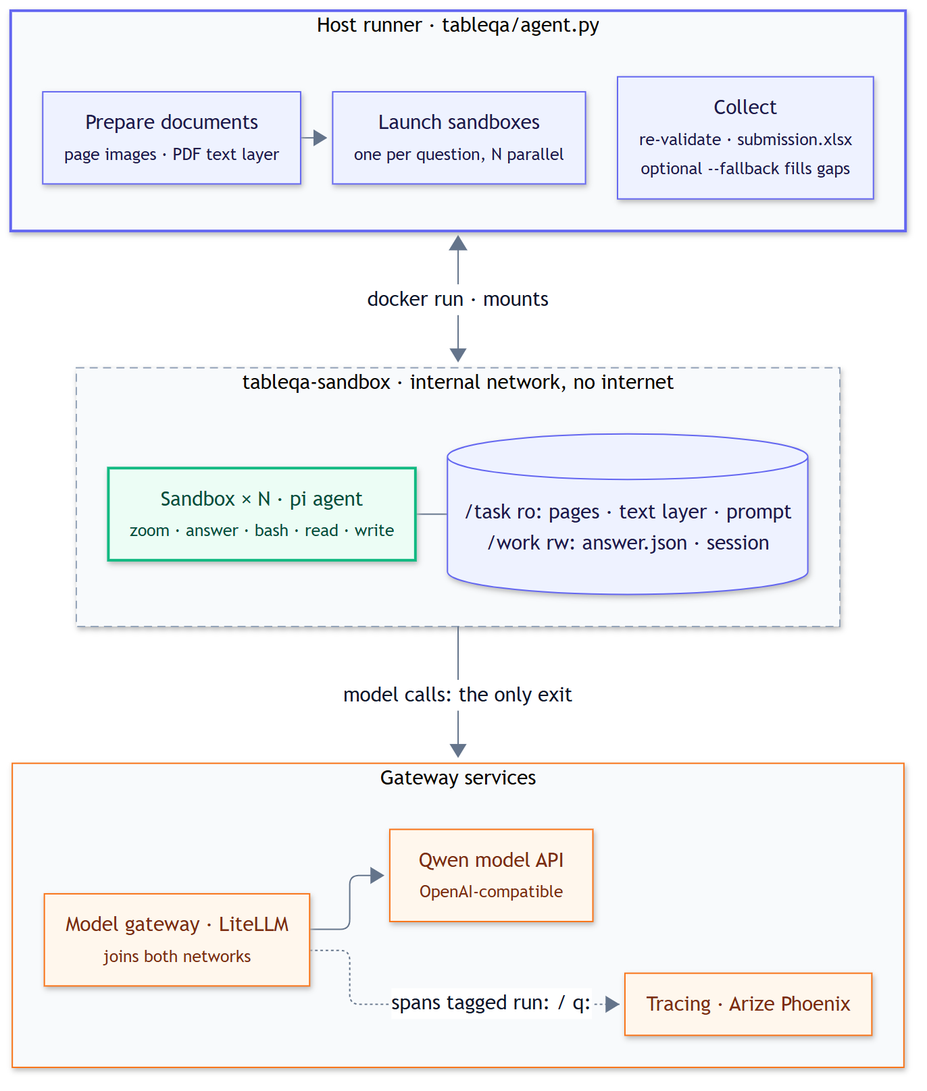
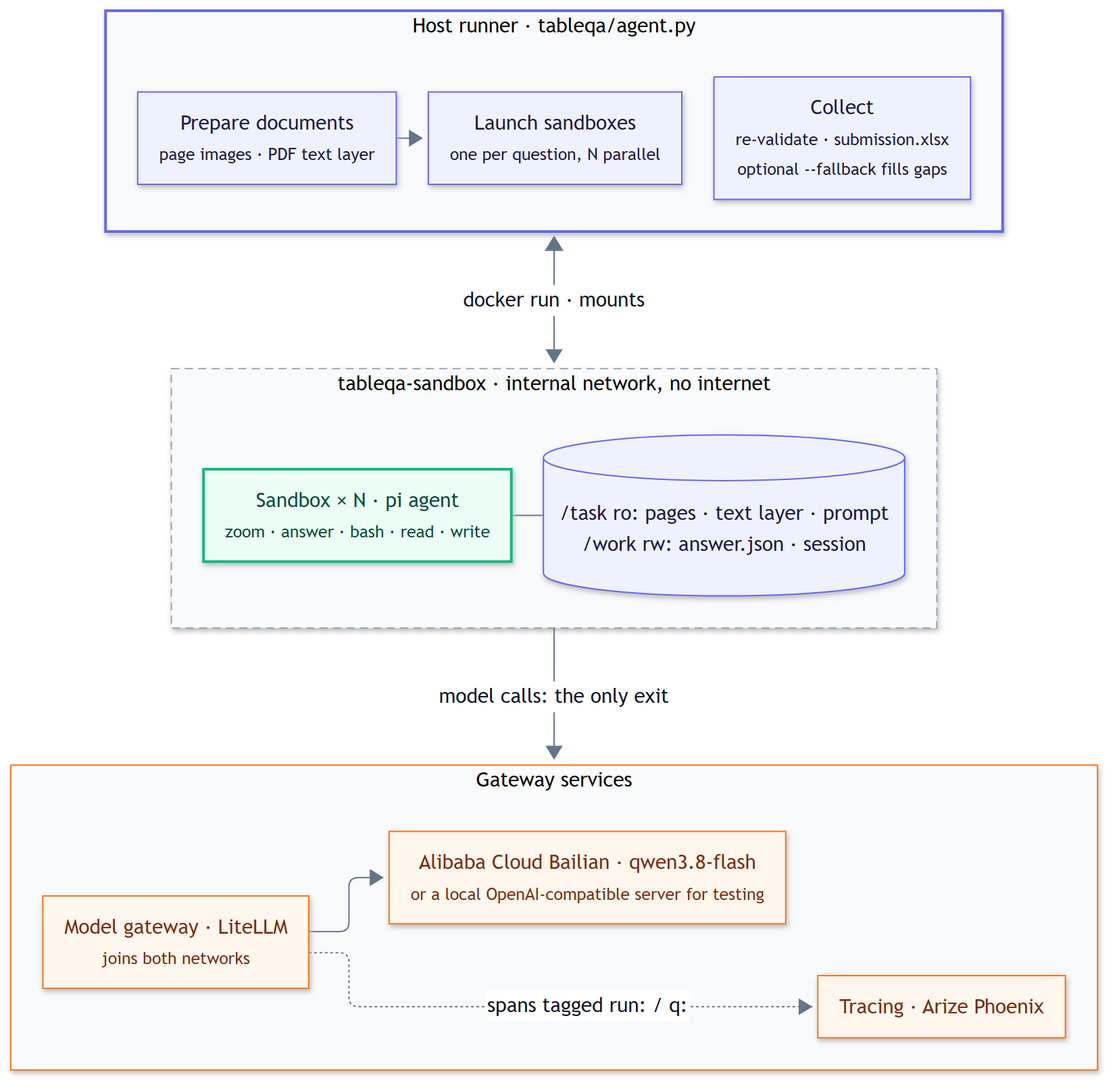
Docs: Bailian as the production target, local servers for testing, latest results

diff --git a/docs/agent-harness.md b/docs/agent-harness.md
@@ -1,123 +1,189 @@
-# Agentic harness: how to run
+# Agent harness: how to run it
 
-Design and rationale: [agent-harness-plan.md](agent-harness-plan.md).
+The agent harness answers each competition question with an AI agent instead of a single model call. For every question, the harness starts a fresh Docker container. Inside it, the [pi](https://github.com/earendil-works/pi) coding agent looks at the page images, reads the PDF text layer when the document has one, crops and enlarges parts of the page, runs Python for arithmetic, and finally submits an answer. The model behind the agent is Alibaba Cloud Bailian's `qwen3.8-flash`.
+
+The design and the reasons behind it are in [agent-harness-plan.md](agent-harness-plan.md).
 
 ![Architecture](diagrams/architecture.svg)
 
 ![One question, end to end](diagrams/session-sequence.svg)
 
-Diagram sources are `docs/diagrams/*.mmd`. Re-render with bun (uses the installed Edge or Chrome; set `MERMAID_BROWSER` otherwise):
+## Quick start
+
+You need three things installed: [Docker](https://docs.docker.com/get-docker/) (running), [uv](https://docs.astral.sh/uv/), and a Bailian API key from the [Alibaba Cloud Model Studio console](https://bailian.console.aliyun.com/).
+
+1. Copy the settings template and fill in your API key and base URL:
+
+   ```bash
+   cp .env.example .env
+   ```
+
+2. Check that the model endpoint supports everything the harness needs. This sends about 15 small requests and costs well under ¥0.10:
+
+   ```bash
+   uv run agent.py smoke
+   ```
+
+3. Answer all 908 questions:
+
+   ```bash
+   uv run agent.py run
+   ```
+
+Each command reads `.env` by itself, rebuilds the sandbox image (this takes seconds when nothing changed), and starts the model gateway and the tracing service with Docker Compose. You do not need to run any setup commands first. The answers end up in `runs/agent/submission.xlsx`.
+
+To try a few questions first, add `--limit 10` (the first ten questions) or `--ids 3,5,20` (specific questions). Use `--name` to keep separate runs in separate folders, for example `uv run agent.py run --name pilot --limit 30`.
+
+If a run stops for any reason, start the same command again. Questions that already have an answer are skipped and cost nothing. This includes a question whose container saved its answer just before the run stopped. Questions that failed or ran out of time start again from the beginning, so the tokens they used before are paid again. To redo one question on purpose, delete its file in `runs/<name>/records/`.
+
+Rerunning only some questions, for example with `--ids`, still writes every answer the run folder holds into `submission.xlsx`, not just the rerun ones. A run folder only accepts answers from one model on one server: it remembers both in `runs/<name>/origin.json` and refuses to continue if either changes, so a test run and the real run can never mix. Use a new `--name` for each server.
+
+If 8 questions in a row fail, the run stops starting new questions, because that usually means the API key, the quota or the service is broken. The questions that were never started get the status `not_started`. The command then exits with an error and tells you to run it again once the problem is fixed.
+
+## Where the model runs
+
+The main and production target is Alibaba Cloud Bailian. The competition requires Qwen models served by Alibaba Cloud, and the final submission must come from a Bailian run.
+
+For development, the harness also works with a model server on your own machine, such as [vLLM](https://docs.vllm.ai/), [SGLang](https://docs.sglang.ai/) or [Ollama](https://ollama.com/), as long as it speaks the OpenAI chat-completions API. Testing against a local server costs nothing, so it is the right place to try prompt or tool changes before spending money on the real endpoint. The `runs/full` results below came from such a development run. To use a local server:
+
+- Put the local settings in their own file, for example `.env.local`, so the real Bailian key never goes to the test server. Pass it with `uv run agent.py --env-file .env.local run --name local`.
+- Set `DASHSCOPE_BASE_URL` to the server's address as seen from inside Docker, for example `http://host.docker.internal:8000/v1`. Docker containers cannot reach `127.0.0.1` on your machine, which is why the address uses `host.docker.internal`.
+- Set `DASHSCOPE_MODEL` to the name the server uses for the model, for example `Qwen3.8-Flash-Next`. The agent still asks the gateway for `qwen3.8-flash`, and the gateway passes the request on under the server's name.
+- Set `DASHSCOPE_API_KEY` to any non-empty text if the server does not check keys.
+- With many parallel containers, also set `LITELLM_CONFIG='litellm-no-messages.yaml'`, so Phoenix records only timing and token counts (see "Watching a run").
+
+The settings for the development run in this repository looked like this:
 
 ```bash
-cd docs/diagrams && bun install && bun run render
+export DASHSCOPE_BASE_URL='http://host.docker.internal:8000/v1'
+export DASHSCOPE_API_KEY='local-test'
+export DASHSCOPE_MODEL='Qwen3.8-Flash-Next'
+export AGENT_MODEL='qwen3.8-flash'
+export LITELLM_CONFIG='litellm-no-messages.yaml'
 ```
 
-Each question runs in its own Docker container with the [pi](https://github.com/earendil-works/pi) coding agent, the page images, the PDF text layer (when present), and a fixed offline Python toolset. The agent has two extra tools: `zoom` (crop and enlarge a page region) and `answer` (submit; validated with the baseline's `normalize_response`). All model calls go through a LiteLLM gateway that logs to Arize Phoenix.
+Bailian reads the thinking settings as top-level request fields. A local server usually reads them from `chat_template_kwargs` instead and ignores the top-level fields, so on a local server the model uses its chat template's default thinking behaviour.
 
-## Layout
+## What one question looks like
 
-| Path | What |
-|---|---|
-| `agent.py` | CLI: `smoke`, `run` |
-| `tableqa/agent.py` | Runner: materials, sandbox pool, validation, submission, cost report |
-| `tableqa/smoke.py` | Endpoint checks |
-| `agent/Dockerfile` | Sandbox image (pi 1.5.2, Python tools) |
-| `agent/pi/` | pi config: `models.json`, `settings.json`, `agent-prompt.md`, `extensions/tableqa.ts` |
-| `agent/tools.py` | `zoom` and answer `check` helpers used by the extension |
-| `agent/compose.yaml`, `agent/litellm.yaml` | LiteLLM gateway + Phoenix |
-| `tests/` | Unit tests and a scripted fake LLM for an offline end-to-end check |
+1. The host prepares the document once and keeps the result in `runs/cache/`: page images (the same renderer as the baseline) and, for PDFs, the text layer with word coordinates. Some PDFs have a broken text layer, where the fonts map every character to the wrong symbol, so the text reads like `!"#$%&'()*+`. The host leaves such a layer out (fewer than half of its characters are letters, digits or Chinese characters), and the agent reads the page image instead.
+2. The host starts a container for the question. The container has no internet access. The only address it can reach is the LiteLLM model gateway.
+3. The agent receives the page images and the question, and works for up to 25 turns. Besides `read`, `bash` and `write`, it has two tools written for this task:
+   - `zoom` crops a region of a page and returns it enlarged.
+   - `answer` checks the answer against the required format (with the baseline's own validator) and ends the session. If the answer has the wrong format, the tool rejects it and tells the agent why, so it can fix it.
+4. If the agent reaches the 25-turn limit, it gets one last turn in which it can only call `answer`.
+5. The host validates the answer again, because it never trusts what comes out of a container, and writes it into `submission.xlsx`. If the agent passed its whole output object as the answer text, for example `{"answer": "培养计划课程"}`, the validator takes the inner value.
 
-## Setup (once)
+The prompt never contains a file name or a question number. Any file name in the question text, including short forms such as `62.pdf` for the file `062.pdf`, is replaced with "该文档" ("this document"). The question number is only in an environment variable inside the container, where pi uses it to tag the traces in Phoenix.
 
-Everything installs into `.venv/` or Docker images; nothing global.
+## Model settings
 
-```bash
-uv sync
-```
+These are set in `agent/pi/models.json` and sent with every model call:
+
+| Setting | Value | Why |
+|---|---|---|
+| `enable_thinking` | `true` | The model reasons before it answers or calls a tool. |
+| `reasoning_effort` | `xhigh` | The highest level Bailian offers for qwen3.8-flash (`max` and `high` mean the same). |
+| `preserve_thinking` | `true` | The model's earlier reasoning stays in the conversation, so later turns build on it. Bailian bills it as input. |
+| `vl_high_resolution_images` | `true` | Without it, Bailian shrinks every image larger than about 2.6 megapixels. About one page image in five is larger than that, and small table text becomes harder to read when it shrinks. |
+| `temperature`, `top_p`, `top_k` | 1.0, 0.95, 20 | The sampling settings recommended for thinking mode. |
+
+`uv run agent.py run --thinking off` turns thinking off (temperature 0.7, top_p 0.8).
+
+## Cost and prompt caching
+
+Bailian charges ¥0.8 per million input tokens and ¥2.7 per million output tokens for qwen3.8-flash in the Beijing region (price list read on 2026-11-19). Reasoning tokens count as output.
+
+Every turn of an agent session sends the whole conversation again, so most of the input is a repeat of the previous call. Bailian's implicit context cache recognises a repeated beginning of a request (at least 1,024 tokens) and charges cached tokens at a fraction of the input price. The cache works automatically and needs no request changes. The harness only has to keep earlier messages byte-for-byte identical, which pi does: it appends new messages and never edits old ones. Questions about the same document also share the system prompt, the tool list and the page images at the start of the first request, so they can hit the cache too.
+
+Bailian also offers an explicit cache with `cache_control` markers. The harness does not use it: creating an explicit cache entry costs more than normal input, and a hit is billed the same as an implicit hit.
+
+`runs/<name>/report.json` prints three cost figures:
+
+- `no_cache`: the price if nothing had been cached.
+- `reported_cache_hits`: the price with the cache hits that Bailian reported. This is the closest figure to the real bill.
+- `prefix_cache_best_case`: the price if every repeated beginning had been cached.
+
+## Watching a run
+
+Open Phoenix at http://127.0.0.1:6006 (project `tableqa-agent`). Every model call appears there while the run is going, with the full messages, token counts, latency and errors. Each call is tagged `run:<name>,q:<question id>`.
+
+Each call carries base64 page images of 1 to 2 MB. In an earlier run with 32 parallel containers, Phoenix fell behind and LiteLLM dropped some traces. If that happens, the run itself is not affected, because the complete record of every session is saved on disk in `runs/<name>/work/<id>/session/`.
+
+For runs with many parallel containers, set `LITELLM_CONFIG='litellm-no-messages.yaml'` in the env file. Phoenix then records each call's timing, token counts and errors, but not the messages. Without the setting, the gateway uses `agent/litellm.yaml`, which logs the full messages.
+
+If you do not need tracing, you can ignore Phoenix. It runs as its own container and the harness works the same without anyone looking at it.
+
+## Output files
+
+Everything for a run is in `runs/<name>/`:
+
+- `submission.xlsx` is the file to upload to the competition platform.
+- `report.json` contains status counts, tool-call totals, average turns, token totals, the cost figures and the total container time.
+- `records/<id>.json` holds one question's answer, status, time, turns, tool counts and token usage.
+- `work/<id>/session/*.jsonl` is the full agent transcript. `stdout.txt`, `stderr.txt` and `answer.json` are next to it.
+
+A question ends with one of these statuses: `ok` (a validated answer), `empty` (the agent decided the answer is empty), `no_answer` (the session ended without calling `answer`), `timeout`, `failed`, or `not_started` (skipped after 8 failures in a row). Questions without an answer stay empty in the submission. With `--fallback submission.xlsx`, they are filled from another submission, such as the baseline's.
+
+## Results
+
+### Development run on a local server (2026-11-17)
+
+This run used the open-weight Qwen3.8-Flash-Next model on a local vLLM server, with the same thinking level as above.
+
+| | Baseline (one model call per question) | Agent harness |
+|---|---|---|
+| Platform score | 71.6 (about 650 of 908 correct) | **78.7** (about 715 of 908 correct) |
+| Answers submitted | 908 | 907 (the agent left 1 empty on purpose) |
+
+- No answers were taken from the baseline.
+- The agent used 19.95 million input tokens and 0.99 million output tokens, with 3.14 turns per question on average.
+- Tool calls: 1,523 `zoom`, 725 `bash`, 134 `read` and 917 `answer`.
+- At Bailian prices, those tokens would cost ¥18.65 with no caching, or ¥8.05 if every repeated prefix were cached. That is ¥0.01 to ¥0.02 per question.
+- The 30 questions about the three PDFs with broken text layers (071, 072 and 073) used 26% of all tokens: 9.4 turns and about 185,000 tokens per question, against 2.8 turns and 22,000 tokens for the other PDFs. The agent kept trying to read the garbled text. The harness now leaves such text layers out.
+- Without ground truth, a comparison with the baseline's answers showed two weak spots. On table-structure questions, the agent tends to return more cells than the requested part of the table. About 30 text answers are full sentences instead of bare values.
+
+### Test run on Bailian (2026-11-19)
+
+Before the full run, `uv run agent.py smoke` passed all its checks on Bailian, and 10 questions (3 structure, 4 extraction, 3 reasoning) ran through the whole harness with 10 containers in parallel:
+
+- All 10 questions ended `ok`.
+- 6 answers were identical to the local development run. Checked by hand against the documents, the other 4 were no worse: in two (q448, a phone number, and q699, a four-row table header) the Bailian answer was right and the local one wrong. The other two (q589 and q749) differ only in whether an empty top-left header corner counts as one merged cell or two cells, which the page does not settle.
+- Bailian reported 88% of all input tokens as cache hits (578,816 cached, 79,049 not cached). The 10 questions cost ¥0.18, compared with ¥0.59 if nothing had been cached.
+- Most questions took 8 to 73 seconds. The slowest one, a large table-structure question, used 23 turns and took 9.6 minutes. On the local server, the same questions took 31 to 441 seconds each.
+
+At this rate, all 908 questions should cost roughly ¥10 to ¥20 and take about 1.5 hours with 16 containers.
+
+## Command options
+
+`uv run agent.py run` accepts:
+
+| Option | Default | Meaning |
+|---|---|---|
+| `--name` | `agent` | Run name and output folder under `runs/` |
+| `--workers` | 16 | Number of containers running at the same time |
+| `--timeout` | 1800 | Seconds allowed per question |
+| `--max-turns` | 25 | Turns before the final answer-only turn |
+| `--thinking` | `high` | `high` sends `reasoning_effort: xhigh`; `off` disables thinking |
+| `--limit`, `--ids` | all | Run only the first N questions, or only the listed ids |
+| `--fallback` | none | Fill unanswered questions from another submission file |
+| `--no-setup` | off | Skip building the image and starting the gateway |
+| `--resume` | off | Only for sessions saved before the final answer-only turn existed: give them that one turn and start nothing new |
+
+`--env-file` and `--no-setup` belong before the command name, for example `uv run agent.py --env-file test.env smoke`. Variables that are already set in your shell take priority over the file.
+
+With 16 workers, the run makes a few calls per second and uses well under Bailian's rate limit for the Beijing region (5 million tokens per minute at the lowest spending level). Each container is limited to 1 CPU and 2 GB of memory, but uses far less in practice, so 16 containers fit on an ordinary desktop computer.
+
+## Offline check without a model
+
+`tests/fake_llm.py` is a scripted model server. It always calls `zoom` first and then `answer`, and it prints every request it receives. It tests the whole chain without spending money: the container, the pi settings, the tools, images inside tool results, the gateway, Phoenix and the host-side validation.
 
 ```bash
 docker build -f agent/Dockerfile -t tableqa-agent:dev .
 ```
 
-Set `.env` (git-ignored; see `.env.example`). `AGENT_BASE_URL` is read from inside the LiteLLM container: an endpoint on this machine's localhost is `http://host.docker.internal:<port>/v1`.
-
 ```bash
-source .env && docker compose -f agent/compose.yaml up -d
-```
-
-Phoenix UI: http://127.0.0.1:6006. Gateway: http://127.0.0.1:4000/v1.
-
-## Check the endpoint
-
-```bash
-source .env && uv run python agent.py smoke
-```
-
-It must pass: text, image input, tool call, image inside a tool result (pi's message format), 30 images in one request, thinking parsed into `reasoning_content`. The Responses API line is informational.
-
-## Run
-
-Pilot on 30 questions, then read a few transcripts:
-
-```bash
-source .env && uv run python agent.py run --name pilot --limit 30
-```
-
-All 908 questions:
-
-```bash
-source .env && uv run python agent.py run
-```
-
-Submit `runs/agent/submission.xlsx` on the platform and compare with the baseline's 71.6. Questions the agent could not answer stay empty, so the score is the agent's alone; `--fallback submission.xlsx` would fill them from the baseline instead.
-
-Runs resume: finished questions (`records/<id>.json` with status `ok` or `empty`) are skipped. Delete a record to redo it.
-
-Optional control: the one-shot baseline against the same endpoint, at the same thinking level, separates "different model build" from "agent harness" in the score difference.
-
-```bash
-source .env && uv run python baseline.py run --custom-endpoint --base-url http://127.0.0.1:4000/v1 --model "$AGENT_MODEL" --output-dir runs/baseline --workers 16 --thinking --max-tokens 65536
-```
-
-## Results
-
-`runs/<name>/`:
-
-- `submission.xlsx`: the file to submit.
-- `report.json`: status counts, tool-call totals, mean turns, total tokens and sandbox time (the cost side of the result).
-- `records/<id>.json`: answer, status, seconds, turns, tool counts, token usage.
-- `work/<id>/session/*.jsonl`: full pi transcript (replayable), plus `stdout.txt`, `stderr.txt`, `answer.json`.
-
-Statuses: `ok` (validated answer), `empty` (agent submitted an empty answer), `no_answer` (session ended without `answer`), `timeout`, `failed`.
-
-At the turn cap (`--max-turns`, default 25) the agent gets one grace turn with only `answer` available. Sessions saved before that existed can be given just that turn with `--resume`, which skips every question that already has an answer.
-
-### Full run (2026-11-17)
-
-| | Baseline (one call per question) | pi agent |
-|---|---|---|
-| Platform score | 71.6 (≈650/908 correct) | **78.7** (≈715/908 correct) |
-| Answers submitted | 908 | 907 (1 deliberately empty) |
-
-- No answers were filled from the baseline.
-- Agent cost: 19.95 M input tokens and 0.99 M output tokens over 908 questions, with an average of 3.14 turns per question.
-- Tool calls: 1523 `zoom`, 725 `bash`, 134 `read` and 917 `answer`.
-- At qwen3.8-flash list prices on the official API this would cost **¥18.65** without caching, or **¥8.05** if every resent prefix hit the implicit cache. That is about ¥0.01–0.02 per question.
-- Total sandbox time was 38.4 h, run at 48 in parallel.
-- Weak spots found by comparing answers with the baseline's (no ground truth):
-  - Table-structure questions: the agent tends to return more cells than the requested sub-range.
-  - About 30 string answers are written as sentences rather than bare values.
-
-## Observability
-
-Phoenix gets one span per model call with latency, token counts, errors and the tag `run:<name>,q:<id>` (filter on `metadata.requester_metadata.headers.x-litellm-tags`). Message bodies are off (`turn_off_message_logging` in `agent/litellm.yaml`): every call carries base64 images (1–2 MB), and at 32 workers Phoenix fell behind and LiteLLM dropped span batches over the 64 MB export limit. Full transcripts are the pi session files; `pi --export <file>` turns one into HTML.
-
-## Offline check (no model needed)
-
-`tests/fake_llm.py` is a scripted server: it calls `zoom`, then `answer`. It verifies the whole chain: sandbox, pi config, extension, image round-trip, LiteLLM, Phoenix, host validation.
-
-```bash
-AGENT_BASE_URL=http://fake-llm:8000/v1 docker compose -f agent/compose.yaml up -d
+DASHSCOPE_BASE_URL=http://fake-llm:8000/v1 DASHSCOPE_API_KEY=fake docker compose -f agent/compose.yaml up -d
 ```
 
 ```bash
@@ -125,22 +191,35 @@ MSYS_NO_PATHCONV=1 docker run -d --name fake-llm --network tableqa-agent_default
 ```
 
 ```bash
-AGENT_MODEL=Qwen3.8-Flash-Next uv run python agent.py run --name e2e --ids 3,5,20 --max-turns 4
+DASHSCOPE_BASE_URL=http://fake-llm:8000/v1 DASHSCOPE_API_KEY=fake uv run agent.py run --name e2e --ids 3,5,20 --max-turns 4
 ```
 
-Expected: ids 3 and 20 `ok` with answer `42`; id 5 (`json_array`) `no_answer` after the validator rejects `42` and the turn cap aborts. Remove `runs/e2e` and `fake-llm` afterwards, then restart compose with the real `.env`.
+On Linux and macOS, replace `$(pwd -W)` with `$(pwd)` and drop `MSYS_NO_PATHCONV=1`.
 
-## Knobs
-
-`agent.py run` flags: `--name` (default `agent`), `--workers` (parallel sandboxes, default 16), `--timeout` (seconds per question, 1800), `--max-turns` (25), `--thinking off|high` (default `high`), `--limit`, `--ids`, `--fallback`.
-
-Thinking defaults to the maximum: pi level `high` maps to `reasoning_effort: xhigh` in `chat_template_kwargs` (`agent/pi/models.json`). Sampling follows the model card: thinking temperature 1.0, top_p 0.95, top_k 20; with `--thinking off`, temperature 0.7, top_p 0.8. The card's presence penalty is left out because it works against copying repeated digits. The baseline's `--thinking` sends the same kwargs and sampling.
+Expected result: questions 3 and 20 end `ok` with the answer `42`. Question 5 needs a JSON array, so the validator rejects `42` and the question ends `no_answer`. `docker logs fake-llm` shows the exact fields the gateway forwarded, including `enable_thinking`, `reasoning_effort`, `preserve_thinking` and the replayed `reasoning_content`. Afterwards, delete `runs/e2e`, run `docker rm -f fake-llm`, and run the smoke test again so that the gateway switches back to the settings in `.env`.
 
 ## Sandbox limits
 
-Per container: internal network (only the gateway is reachable), read-only root filesystem, 512 MB tmpfs `/tmp`, writable `/work` only, 1 CPU, 2 GB RAM, 256 processes, all capabilities dropped, non-root user. Python packages: pillow, pymupdf, openpyxl, numpy, pandas, opencv-python-headless.
+Each container runs on an internal Docker network where the only reachable address is the gateway. It has a read-only root filesystem, a 512 MB `/tmp`, a writable `/work` folder, 1 CPU, 2 GB of memory and at most 256 processes. All Linux capabilities are dropped and it runs as a normal user. The Python packages inside are pillow, pymupdf, openpyxl, numpy, pandas and opencv-python-headless. There are no OCR engines and no machine-learning frameworks, and nothing can be installed at run time.
 
-Not limited, bounded only by the per-question timeout:
+Two things are limited only by the per-question timeout:
 
-- **Disk in `/work`:** it is a host bind mount without a quota, so a runaway script can fill the host disk. Watch free space on a full run.
-- **Model calls from tools:** code run through `bash` can call the gateway directly, outside the turn cap. The gateway has no per-sandbox budget; Phoenix shows such calls under the question's tag only if they set the tag header, so compare `report.json` tokens with the gateway's totals.
+- `/work` is a folder on the host without a size quota, so a runaway script could fill the host disk. Keep an eye on free disk space during a full run.
+- Code that the agent runs with `bash` could call the gateway directly, outside the turn limit. The gateway only forwards `qwen3.8-flash`, so such calls cannot reach a more expensive model. To spot them, compare the token totals in `report.json` with the totals in Phoenix.
+
+The Bailian API key is only given to the gateway container. The agent containers never see it.
+
+## Project layout
+
+| Path | What it contains |
+|---|---|
+| `agent.py` | The command-line entry point (`smoke` and `run`) |
+| `tableqa/agent.py` | The runner: document preparation, the container pool, validation, the submission file and the cost report |
+| `tableqa/smoke.py` | The endpoint checks behind `agent.py smoke` |
+| `agent/Dockerfile` | The sandbox image: pi 1.5.2 and the Python tools |
+| `agent/pi/` | pi settings: the model settings, the extra system prompt, the turn limit and the `zoom` and `answer` tools |
+| `agent/tools.py` | The Python helpers behind `zoom` and the answer check |
+| `agent/compose.yaml`, `agent/litellm.yaml`, `agent/litellm-no-messages.yaml` | The LiteLLM gateway and Phoenix (with and without message logging) |
+| `tests/` | Unit tests and the fake model server |
+
+Run the unit tests with `uv run pytest`. The diagrams are generated from `docs/diagrams/*.mmd`. To redraw them, run `bun install` and then `bun run render` in `docs/diagrams` (this uses the installed Edge or Chrome browser; set `MERMAID_BROWSER` to use another one).

diff --git a/docs/agent-harness-plan.md b/docs/agent-harness-plan.md
@@ -31,6 +31,7 @@ Compared with a separate OCR model such as PaddleOCR: for PDFs with a text layer
   - `answer(answer, calculations)` validates with the baseline's `normalize_response`, writes `answer.json`, ends the session.
 - **Prompt:** the baseline's prompt for the question type (`tableqa/prompts.py`), plus a short note on the tools and on submitting through `answer`.
 - **Limits:** 25 turns, 30 minutes per question, maximum reasoning effort.
+- **Model:** `qwen3.8-flash` on Alibaba Cloud Bailian for the real run. During development, the same harness ran against the open-weight Qwen3.8-Flash-Next model on a local vLLM server, which costs nothing per call.
 - **Collection:** the host re-validates `answer.json` and writes `submission.xlsx`. A question without a valid answer stays empty.
 - **Observability:** every model call goes through LiteLLM and is traced in Phoenix (tokens, latency, run/question tags). Full transcripts are kept per question.
 
@@ -42,7 +43,7 @@ The platform scores submissions (5 per day). The plan uses 1–2 submissions:
 
 1. Run the agent on all 908 questions, submit, compare with the baseline's 71.6.
 2. Report the cost next to the score: tokens, wall-clock time, tool calls and turns per question (`report.json`).
-3. Optional control: the one-shot baseline against the same model endpoint (one extra submission), so the score difference can be attributed to the harness rather than to the model build.
+3. Optional control: the one-shot baseline against the same model (one extra submission), so the score difference can be attributed to the harness rather than to a different model version.
 
 No tuning against the leaderboard between submissions, so there is nothing to overfit.
 
@@ -58,11 +59,14 @@ Risks:
 2. **No `answer` call:** if the model ends with plain text, the question stays empty.
 3. **Images in tool results** must reach the model; `agent.py smoke` checks this before any run.
 4. **Cost:** an agent session uses many more tokens than one request. Recorded and reported, not hidden.
-5. **Context growth:** every zoom adds an image; the endpoint must accept about 30 images per request (checked by `smoke`).
+5. **Context growth:** every zoom adds an image, so the model API must accept about 30 images per request (`smoke` checks this).
 
 ## Sources
 
 - Qwen3.8-Flash-Next model card: https://huggingface.co/Qwen/Qwen3.8-Flash-Next
+- Bailian qwen3.8-flash: https://docs.modelstudio.console.alibabacloud.com/en/model-studio/qwen3-8-flash
+- Bailian context cache: https://help.aliyun.com/zh/model-studio/context-cache
+- Bailian OpenAI-compatible API: https://help.aliyun.com/zh/model-studio/qwen-api-via-openai-chat-completions
 - pi: https://pi.dev/changelog/2026/5/7/pi-has-a-new-home
 - pi custom models: https://unpkg.com/@earendil-works/pi-coding-agent@0.83.0/docs/models.md
 - Phoenix tracing: https://arize.com/docs/phoenix/integrations/coding-agents/codex

diff --git a/README.md b/README.md
@@ -4,11 +4,27 @@
 
 使用阿里云百炼 `qwen3.8-flash` 完成复杂表格结构恢复、内容提取和内容推理。
 
+本仓库有两套方案：
+
+- **Baseline**：每道题调用一次模型，平台得分 71.6。用法见下文。
+- **Agent 方案**：每道题在独立的 Docker 容器中运行一个 AI agent。agent 可以放大页面局部、读取 PDF 文本层、用 Python 计算，最后提交经过格式校验的答案。在本地开发服务器（开源权重模型，不符合比赛对模型来源的要求，仅作开发参考）上的完整试跑得分 78.7；正式结果以百炼 qwen3.8-flash 的运行为准。用法、设计和结果见 [docs/agent-harness.md](docs/agent-harness.md)。
+
+Agent 方案只需三步（需要 Docker 和 uv）：
+
+```bash
+cp .env.example .env          # 填入百炼 API Key 和 Base URL
+uv run agent.py smoke         # 检查接口，花费不到 0.1 元
+uv run agent.py run           # 回答全部 908 题，结果在 runs/agent/submission.xlsx
+```
+
 ## 文件结构
 
 ```text
 .
-├── baseline.py                    # 主程序，固定使用 qwen3.8-flash
+├── baseline.py                    # Baseline 主程序，固定使用 qwen3.8-flash
+├── agent.py                       # Agent 方案入口：smoke（检查接口）和 run（答题）
+├── agent/                         # Agent 沙箱镜像、pi 配置、LiteLLM 网关和 Phoenix
+├── docs/                          # Agent 方案的设计、用法和结果
 ├── tableqa/                       # 预处理、提示词、API 请求、校验与恢复
 ├── run.sh                         # 运行入口
 ├── requirements.txt
